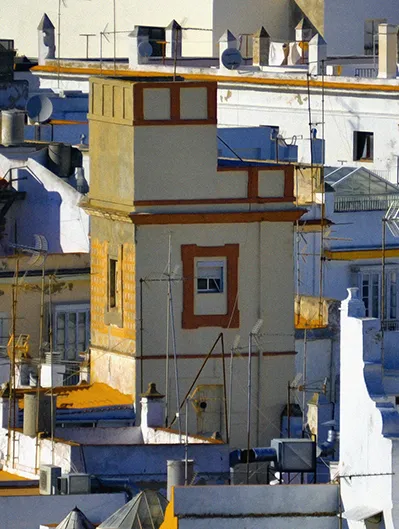
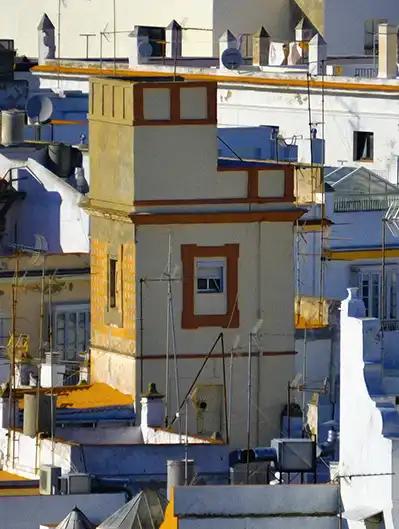
tamaños imagenes

diff --git a/src/styles.css b/src/styles.css
@@ -451,7 +451,7 @@ img {
 }
 
 .tipostorres img {
-    aspect-ratio: 1.70;
+    aspect-ratio: 0.75;
     width: 100%;
     height: auto;
 }
